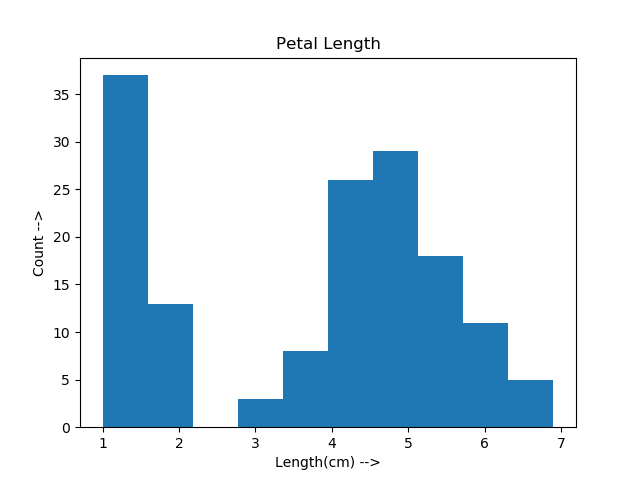
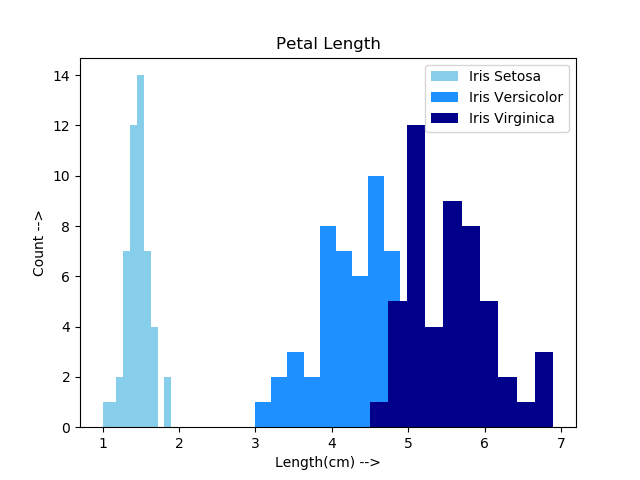
Testing Write function

diff --git a/analysis.py b/analysis.py
@@ -7,13 +7,32 @@ import matplotlib.pyplot as plt
 
 
 def summary():
-    with open('Analysis.txt', 'a') as f:
-        f.write("TEXT GOES HERE")
+    with open('Analysis.md', 'w') as f:
+        f.write("Analysis of the Dataset.")
+        f.write("\n")
+        f.write("\nPART I: Histogram Analysis")
+        f.write("\n")
+        f.write("\nPetal Length")
+        f.write("\n <img src='https://github.com/ocoleman/pns-project2020/blob/master/plots/hist-petal_length.png' alt='Histogram-Petal Length'>")
+        f.write("""\nAs we can see from the histogram above, the Petal length of the Setosa flowers are tightly situated between 1 and 2 centimetres, with the majority being around the 1.5-centimetre mark.
+The length of the other two species cover a much larger range, between 3 centimetres and just under 7 centimetres. 
+Despite this it seems the petal length of the Iris Virginica is easily distinguishable as the largest of the 3 species of flower.""")
+        f.write("\n ")
+        f.write("\n ")
+
+
 
 
 def hist(df):
-    
-    plt.hist(df['petal_length'])
+
+    iris_set = df[df['species'] == 'setosa']
+    iris_vers = df[df['species'] == 'versicolor']
+    iris_virg = df[df['species'] == 'virginica']
+
+    plt.hist(iris_set['petal_length'], color = "skyblue", label="Iris Setosa")
+    plt.hist(iris_vers['petal_length'], color = "dodgerblue", label="Iris Versicolor")
+    plt.hist(iris_virg['petal_length'], color = "darkblue", label="Iris Virginica")
+    plt.legend(loc="upper right")
     plt.title("Petal Length")
     plt.xlabel("Length(cm) -->")
     plt.ylabel("Count -->")
@@ -21,7 +40,10 @@ def hist(df):
     plt.clf()
 
 
-    plt.hist(df['petal_width'])
+    plt.hist(iris_set['petal_width'], color = "skyblue", label="Iris Setosa")
+    plt.hist(iris_vers['petal_width'], color = "dodgerblue", label="Iris Versicolor")
+    plt.hist(iris_virg['petal_width'], color = "darkblue", label="Iris Virginica")
+    plt.legend()
     plt.title("Petal Width")
     plt.xlabel("Length(cm) -->")
     plt.ylabel("Count -->")
@@ -29,7 +51,10 @@ def hist(df):
     plt.clf()
 
 
-    plt.hist(df['sepal_length'])
+    plt.hist(iris_set['sepal_length'], color = "skyblue", label="Iris Setosa")
+    plt.hist(iris_vers['sepal_length'], color = "dodgerblue", label="Iris Versicolor")
+    plt.hist(iris_virg['sepal_length'], color = "darkblue", label="Iris Virginica")
+    plt.legend()
     plt.title("Sepal Length")
     plt.xlabel("Length(cm) -->")
     plt.ylabel("Count -->")
@@ -37,8 +62,11 @@ def hist(df):
     plt.clf()
 
 
-    plt.hist(df['sepal_width'])
-    plt.title("Sepal Length")
+    plt.hist(iris_set['sepal_width'], color = "skyblue", label="Iris Setosa")
+    plt.hist(iris_vers['sepal_width'], color = "dodgerblue", label="Iris Versicolor")
+    plt.hist(iris_virg['sepal_width'], color = "darkblue", label="Iris Virginica")
+    plt.legend()
+    plt.title("Sepal Width")
     plt.xlabel("Length(cm) -->")
     plt.ylabel("Count -->")
     plt.savefig("plots/hist-sepal_width.png")
@@ -57,7 +85,7 @@ def plots(df):
     plt.plot(iris_virg["sepal_length"], iris_virg["sepal_width"], "b.", label="Iris Virginica")
     #Providing plots with labels and a legend.
     plt.legend()
-    plt.title("Sepal Length vs Speal Width (in cm)")
+    plt.title("Sepal Length vs Sepal Width (in cm)")
     plt.xlabel("Sepal Length")
     plt.ylabel("Sepal Width")
     #Saving and clearing the figure.
@@ -89,8 +117,6 @@ def plots(df):
     #Saving and clearing the figure.
     plt.savefig("plots/3sepallength-vs-petalwidth.png")
     plt.clf()
-
-
 
     #####Sepal Width#####
     #---Sepal Width vs Sepal Length---
@@ -222,7 +248,7 @@ def main():
     df = pd.read_csv("iris.csv")
     summary()
     hist(df)
-    plots(df)
+    #plots(df)
 
 
 

diff --git a/ipython_log.py b/ipython_log.py
@@ -25,3 +25,4 @@ iris_vers = df[df['species'] == 'versicolor']
 iris_virg = df[df['species'] == 'virginica']
 plt.plot(iris_set["petal_length"], iris_set["petal_width"], "r.", label="Iris Setosa")
 plt.plot(iris_vers["petal_length"], iris_set["petal_width"], "g.", label="Iris Versicolor")
+exit()

diff --git a/Analysis.md b/Analysis.md
@@ -1,0 +1,11 @@
+Analysis of the Dataset.
+
+PART I: Histogram Analysis
+
+Petal Length
+ <img src='https://github.com/ocoleman/pns-project2020/blob/master/plots/hist-petal_length.png' alt='Histogram-Petal Length'>
+As we can see from the histogram above, the Petal length of the Setosa flowers are tightly situated between 1 and 2 centimetres, with the majority being around the 1.5-centimetre mark.
+The length of the other two species cover a much larger range, between 3 centimetres and just under 7 centimetres. 
+Despite this it seems the petal length of the Iris Virginica is easily distinguishable as the largest of the 3 species of flower.
+ 
+ 
